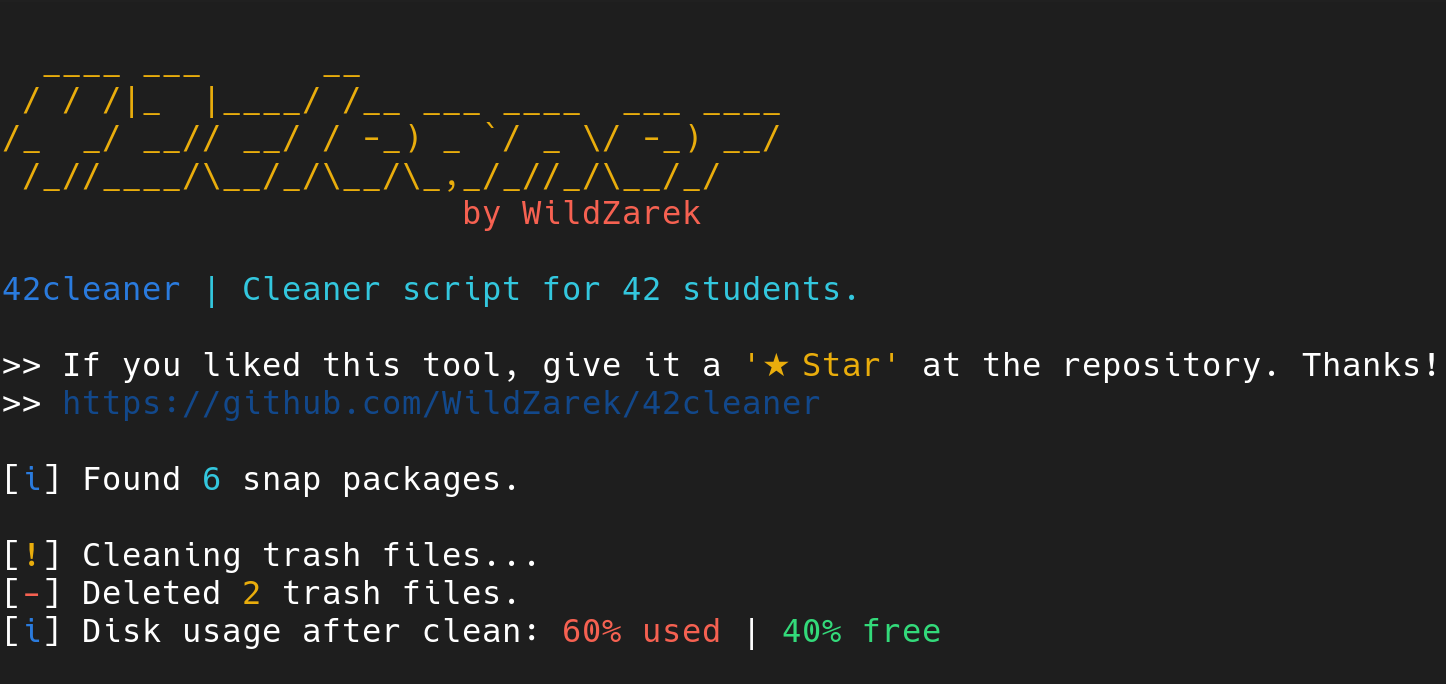
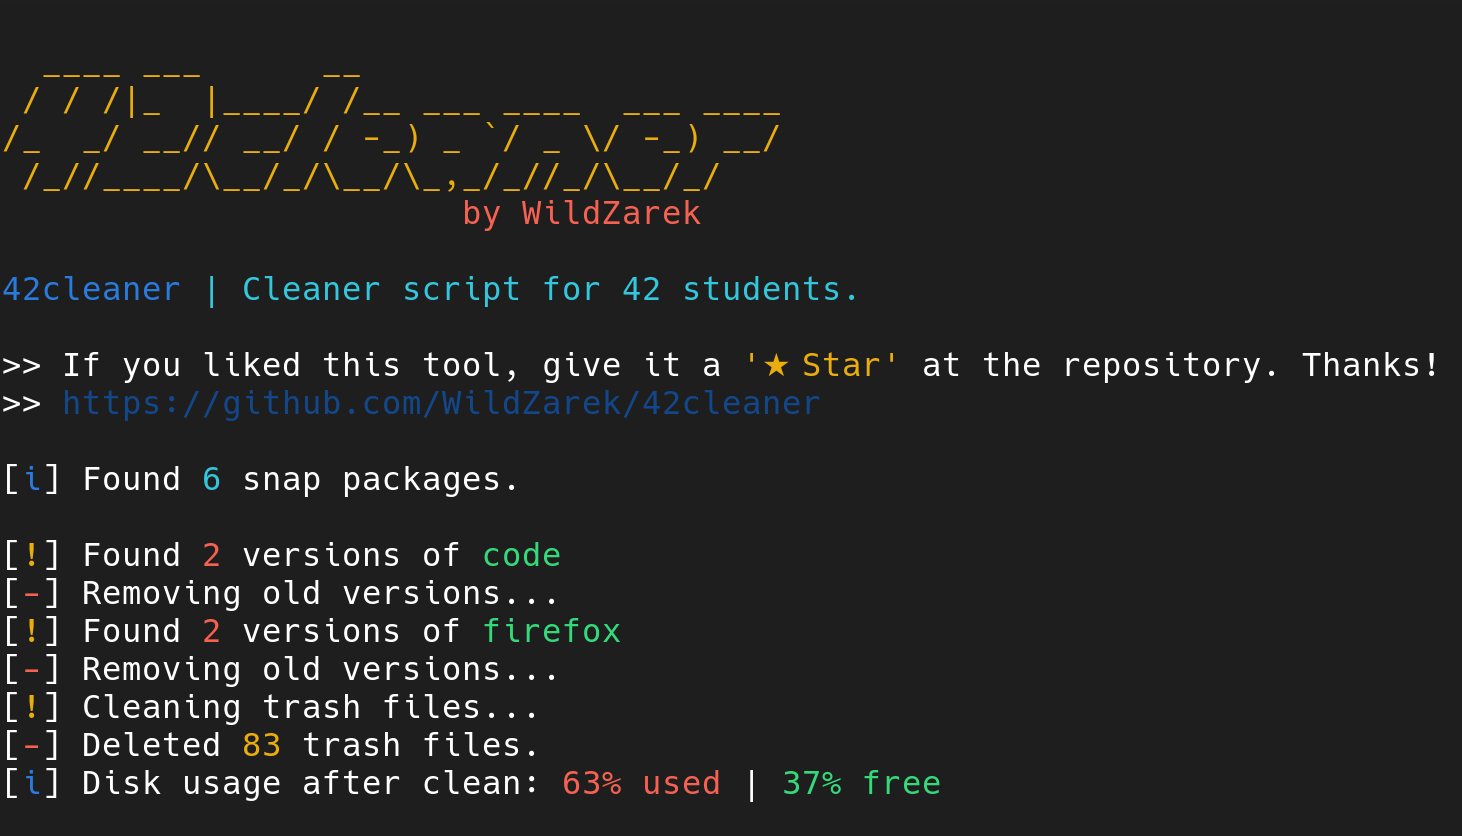
v0.7 beta

diff --git a/42cleaner.py b/42cleaner.py
@@ -32,7 +32,7 @@ def Cyan(txt: str) -> str:
 def White(txt: str) -> str:
     return f"\033[97m{txt}\033[97m"
 
-def print_banner() -> None:
+def show_banner() -> None:
     banner = """\033[93m
   ____ ___      __                     
  / / /|_  |____/ /__ ___ ____  ___ ____
@@ -45,6 +45,7 @@ def print_banner() -> None:
 >> If you liked this tool, give it a \033[93m'★ Star'\033[97m at the repository. Thanks!
 >> \033[34mhttps://github.com/WildZarek/42cleaner\033[97m
 """
+    os.system("clear")
     print(banner)
 
 def check_command(command: str) -> str:
@@ -69,7 +70,7 @@ def need_space(usr: str) -> bool:
     # print(f"Used: {round(home.used / (2**30), 2)} GiB")
     # print(f"Free: {round(home.free / (2**30), 2)} GiB")
     # print(f"Percentage: {round(home.percent)}%")
-    if round(home.percent) > 70:
+    if round(home.percent) > 60:
         return True
     else:
         return False
@@ -79,6 +80,22 @@ def clear_snap(usr: str) -> int:
     packages = glob(f"/home/{usr}/snap/*")
     print(f"[{Blue('i')}] Found {Cyan(str(len(packages)))} snap packages.\n")
     for pkg in packages:
+        # Firefox's cleaning subroutine
+        if pkg.split('/')[-1] == "firefox":
+            firefox_cache = glob(f"{pkg}/common/.cache/*")
+            files_deleted += len(firefox_cache)
+            os.system(f"rm -rf {pkg}/common/.cache/*")
+        # Slack's cleaning subroutine
+        if pkg.split('/')[-1] == "slack":
+            slack_cache = glob(f"{pkg}/common/.cache/*")
+            files_deleted += len(slack_cache)
+            os.system(f"rm -rf {pkg}/common/.cache/*")
+            slack_versions = os.listdir(pkg)
+            slack_versions.remove("common")
+            slack_versions.remove("current")
+            slack_latest_cache = glob(f"{pkg}/{slack_versions[0]}/.config/Slack/Cache/Cache_Data/*")
+            files_deleted += len(slack_latest_cache)
+            os.system(f"rm -rf {pkg}/{slack_versions[0]}/.config/Slack/Cache/Cache_Data/*")
         versions = os.listdir(pkg)
         versions.remove("common")
         versions.remove("current")
@@ -109,7 +126,7 @@ def clean() -> None:
             files_vscode_cached_data = glob(f"/home/{usr}/.config/Code/CachedData/*")
             # Francinette files
             files_francinette = glob(f"/home/{usr}/francinette/temp/*")
-            # Snap packages
+            # Snap packages (revisions)
             files_snap = clear_snap(usr)
             
             total_files = len(files_zcompdump) + len(files_cache) + len(files_vscode_cache) \
@@ -130,10 +147,9 @@ def clean() -> None:
                 print(f"[{Red('-')}] Deleted {Yellow(str(total_files))} trash files.")
                 print(f"[{Blue('i')}] Disk usage after clean: {show_space(usr)}\n")
     else:
-        print(f"[{Blue('i')}] No need to clean. You have enough space: {show_space(usr)}")
+        print(f"[{Blue('i')}] No need to clean. You have enough space: {show_space(usr)}\n")
         return
 
 if __name__ == "__main__":
-    os.system("clear")
-    print_banner()
+    show_banner()
     clean()

diff --git a/README.md b/README.md
@@ -1,16 +1,18 @@
 # 42cleaner
 
-Python script to clean temp/cache files and older versions from Snap.
+42cleaner is a Python script designed to clean temp/cache files and unnecessary older versions from Snap.
 
-Tested on **42 Málaga** school running **Ubuntu**. NOT for macOS.
+It helps to free up disk space and maintain system performance.
+
+Made for 42 students. Tested on **42 Málaga** school running **Linux/Ubuntu**. NOT for macOS.
 
 <img src="assets/run.png" alt="Script running" align="center" />
 
 # Why?
 
 Due to the limit of 5 GB size for 'home' directory and looking to provide a solution
-for the problem with the Snap package manager that is not removing properly
-old versions cache, this tool has born to solve that problem.
+for the problem with the Snap package manager which is not removing properly
+old versions (revisions), this tool has born to solve that problem.
 
 # Trash files
 
@@ -18,10 +20,12 @@ This tool removes the following files:
 
 - Empties recycle bin (Trash).
 - All .zcompdump files (A cache file used by compinit).
-- All cache files (.cache folder at $HOME)
-- All cache files from vscode (.config/Code/Cache and .config/Code/CachedData)
-- All temp files created by Francinette.
-- All older versions from installed Snap packages.
+- All Cache files in our home (~/.cache)
+- Cache files from vscode (~/.config/Code/Cache and ~/.config/Code/CachedData)
+- Cache files from firefox (~/snap/firefox/common/.cache)
+- Cache files from slack (~/snap/slack/common/.cache)
+- All temp files created by Francinette. (~/francinette/temp)
+- Older versions (revisions) from installed Snap packages.
 
 # How to use
 
@@ -31,7 +35,7 @@ Clone this repository by using the following command:
 git clone https://github.com/WildZarek/42cleaner.git
 ```
 
-Then, change to the new downloaded folder:
+Then, move to the new downloaded folder:
 
 ```bash
 cd 42cleaner
@@ -44,7 +48,7 @@ python3 42cleaner.py
 ```
 
 > [!NOTE]
-> If the used space in your 'home' is under 70%, the tool doesn't do any operation.
+> If the used space in your 'home' is under 60%, the tool doesn't do any operation.
 >
 > Otherwise, the tool performs the needed operations to free space.
 
